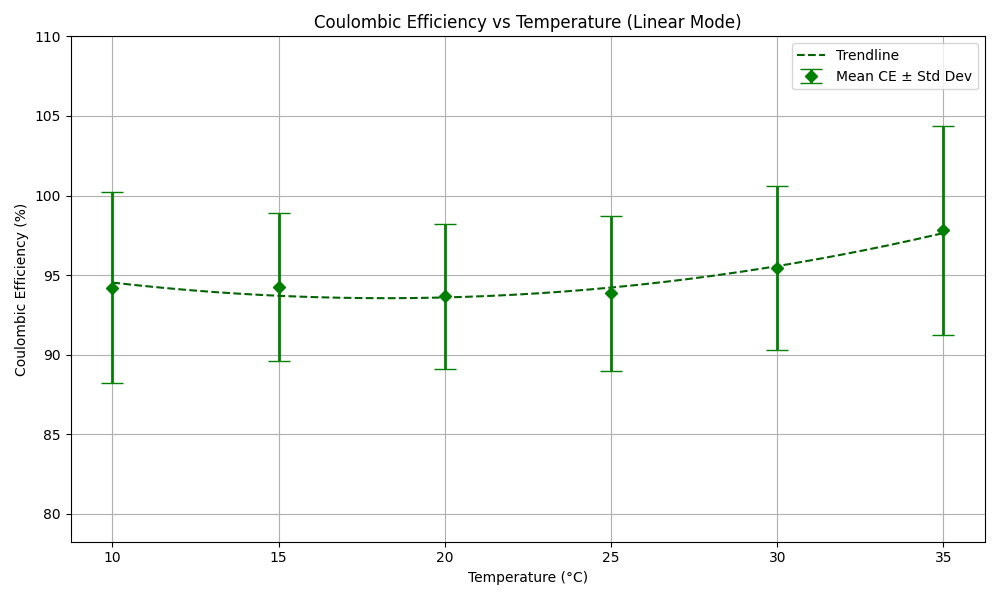
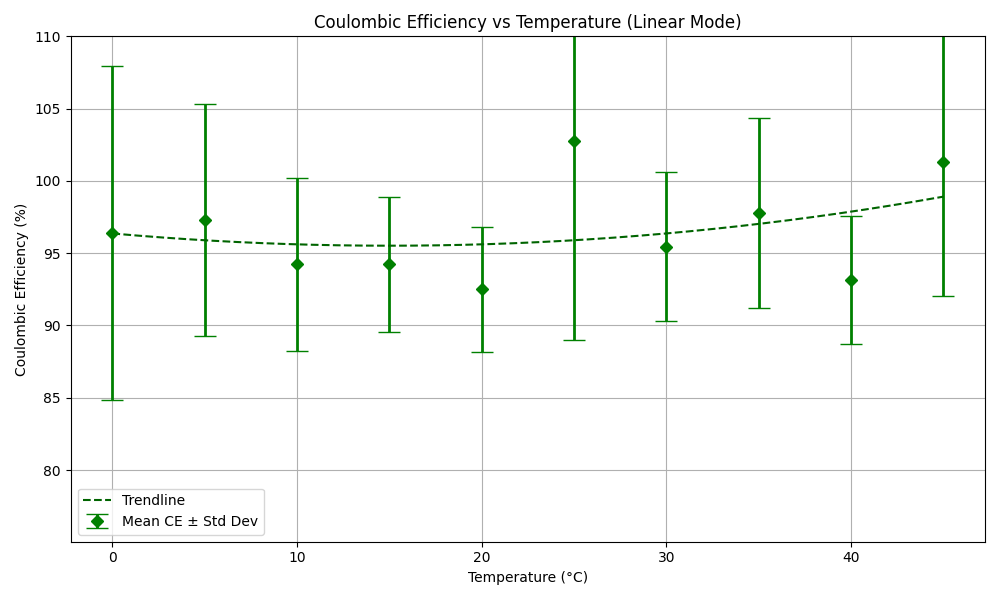
capacity_update

diff --git a/tools/automatic_battery_tester/analysis/charging_analysis.py b/tools/automatic_battery_tester/analysis/charging_analysis.py
@@ -6,12 +6,49 @@ from InquirerPy import inquirer
 from InquirerPy.base import Choice
 from utils import load_measured_data
 
-default_dataset_dir = Path("../test_results")
+default_dataset_dir = Path("../TS7_JYH_PFL333838_350_complete")
 # default_dataset_dir = Path("../single_capture_test_results")
 
 battery_thermal_limit = 45.0  # Celsius
 case_thermal_limit = 41.0  # Celsius
 
+def inquire_dataset(base_dir="../"):
+    """
+    List available dataset folders and let the user pick one
+    with fuzzy search interaction.
+    """
+    base_path = Path(base_dir)
+    if not base_path.exists():
+        print(f"⚠ Base directory {base_dir} not found. Using default.")
+        return default_dataset_dir
+
+    # List directories only
+    folders = [f for f in base_path.iterdir() if f.is_dir()]
+    if not folders:
+        print(f"⚠ No dataset folders found in {base_dir}. Using default.")
+        return default_dataset_dir
+
+    # Build fuzzy-choice list
+    folder_choices = []
+    for f in folders:
+        # Add some extra info: number of files, subfolders
+        num_files = sum(1 for _ in f.glob("**/*") if _.is_file())
+        num_subdirs = sum(1 for _ in f.glob("*/") if _.is_dir())
+        label = f"{f.name} ({num_files} files, {num_subdirs} subfolders)"
+        folder_choices.append(Choice(name=label, value=f))
+
+    # Run fuzzy selection (single choice)
+    try:
+        selected = inquirer.fuzzy(
+            message="Select dataset folder:",
+            choices=folder_choices,
+            multiselect=False,
+            instruction="(Type to search, press <enter> to confirm)",
+        ).execute()
+        return selected
+    except Exception as e:
+        print(f"⚠ Falling back to default dataset. Reason: {e}")
+        return default_dataset_dir
 
 def select_mode():
     return inquirer.select(
@@ -633,7 +670,11 @@ def plot_group_by_timestamp(time_id, files_dict, ext_temp_file):
 
 
 def main():
+    global default_dataset_dir
+    
     mode = select_mode()
+
+    default_dataset_dir = inquire_dataset("../")
 
     if mode == "Select individual waveform files":
         selected_waveforms = select_waveforms()

diff --git a/tools/automatic_battery_tester/analysis/capacity_calculation.py b/tools/automatic_battery_tester/analysis/capacity_calculation.py
@@ -8,6 +8,8 @@ from matplotlib.ticker import MaxNLocator
 from scipy.stats import norm
 from matplotlib.lines import Line2D
 import matplotlib.cm as cm
+from InquirerPy import inquirer
+from InquirerPy.base import Choice
 import csv
 from utils import (
     load_measured_data,
@@ -20,6 +22,44 @@ output_dir.mkdir(exist_ok=True)
 invalid_files = []
 
 default_dataset_dir = Path("../test_results")
+
+def inquire_dataset(base_dir="../"):
+    """
+    List available dataset folders and let the user pick one
+    with fuzzy search interaction.
+    """
+    base_path = Path(base_dir)
+    if not base_path.exists():
+        print(f"⚠ Base directory {base_dir} not found. Using default.")
+        return default_dataset_dir
+
+    # List directories only
+    folders = [f for f in base_path.iterdir() if f.is_dir()]
+    if not folders:
+        print(f"⚠ No dataset folders found in {base_dir}. Using default.")
+        return default_dataset_dir
+
+    # Build fuzzy-choice list
+    folder_choices = []
+    for f in folders:
+        # Add some extra info: number of files, subfolders
+        num_files = sum(1 for _ in f.glob("**/*") if _.is_file())
+        num_subdirs = sum(1 for _ in f.glob("*/") if _.is_dir())
+        label = f"{f.name} ({num_files} files, {num_subdirs} subfolders)"
+        folder_choices.append(Choice(name=label, value=f))
+
+    # Run fuzzy selection (single choice)
+    try:
+        selected = inquirer.fuzzy(
+            message="Select dataset folder:",
+            choices=folder_choices,
+            multiselect=False,
+            instruction="(Type to search, press <enter> to confirm)",
+        ).execute()
+        return selected
+    except Exception as e:
+        print(f"⚠ Falling back to default dataset. Reason: {e}")
+        return default_dataset_dir
 
 
 def list_csv_files():
@@ -798,6 +838,10 @@ def plot_mean_ce_vs_temperature(temp_list, temp_groups):
 def main():
 
     invalid_files = []
+
+    global default_dataset_dir
+
+    default_dataset_dir = inquire_dataset("../")
 
     if not default_dataset_dir.exists():
         print(f"Error: directory {default_dataset_dir} not found.")
